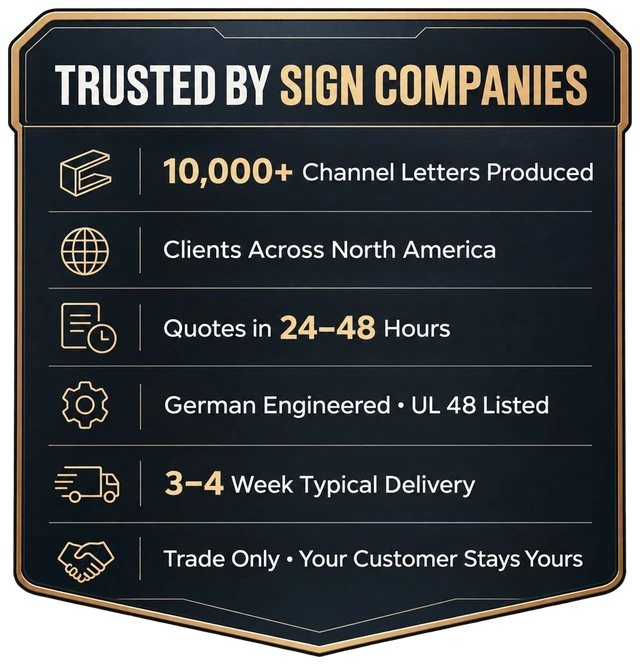
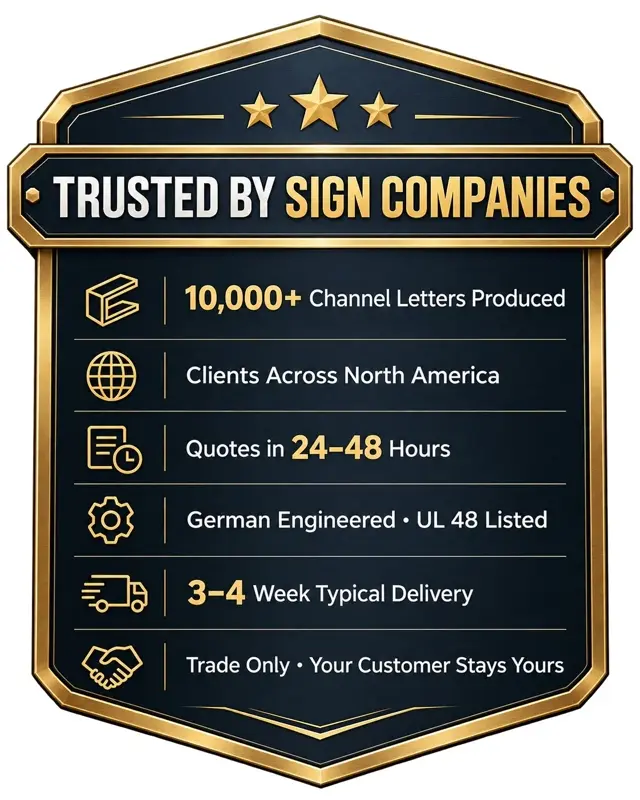
New trust badge; real 404 page (prerendered 404.html, nginx error_page, no more soft 404s); /configurator in the sitemap; GO-LIVE guide
Claude-Session: https://claude.ai/code/session_01APW8WacVs5y7jePXvmngjG

diff --git a/src/pages/NotFoundPage.tsx b/src/pages/NotFoundPage.tsx
@@ -1,0 +1,44 @@
+import { useEffect } from "react";
+import { Link } from "react-router-dom";
+import Seo from "../components/Seo";
+import { PrimaryCta } from "../components/CtaButton";
+import { CTA_LINKS } from "../lib/cta";
+
+const links = [
+  { to: CTA_LINKS.exploreUltraSlim.to, label: "Ultra-slim letters" },
+  { to: CTA_LINKS.viewChannelLetters.to, label: "Classic trimless letters" },
+  { to: "/services/custom-sign-fabrication", label: "Custom sign fabrication" },
+  { to: CTA_LINKS.tryConfigurator.to, label: "Build Your Sign in 3D" },
+  { to: CTA_LINKS.viewAllProjects.to, label: "Projects" },
+  { to: "/contact", label: "Contact" },
+];
+
+/** Any address that is not a page of this site. The host answers it with a real 404 status (see nginx.conf). */
+export default function NotFoundPage() {
+  useEffect(() => { window.scrollTo(0, 0); }, []);
+  return (
+    <div className="pt-32 pb-24">
+      <Seo title="Page not found" description="This page does not exist or has moved." path="/404" noindex />
+      <div className="max-w-3xl mx-auto px-6">
+        <p className="mono-label text-primary mb-4">Error 404</p>
+        <h1 className="text-5xl md:text-7xl">Page not found.</h1>
+        <p className="text-lg text-foreground/80 mt-6 max-w-xl">
+          The page you are looking for does not exist or has moved. Try one of these, or send us your artwork and we will quote it.
+        </p>
+        <ul className="mt-8 grid sm:grid-cols-2 gap-3">
+          {links.map((l) => (
+            <li key={l.to}>
+              <Link to={l.to} className="block border border-border bg-card/50 px-4 py-3 hover:border-primary hover:text-primary transition-colors">
+                {l.label}
+              </Link>
+            </li>
+          ))}
+        </ul>
+        <div className="mt-8 flex flex-col sm:flex-row gap-3">
+          <PrimaryCta />
+          <Link to="/" className="mono-label inline-flex items-center px-4 py-3 text-muted-foreground hover:text-foreground">Back to the homepage</Link>
+        </div>
+      </div>
+    </div>
+  );
+}

diff --git a/src/App.tsx b/src/App.tsx
@@ -1,3 +1,4 @@
+import NotFoundPage from "./pages/NotFoundPage";
 import { lazy, Suspense } from "react";
 import { BrowserRouter, Navigate, Routes, Route } from "react-router-dom";
 import Header from "./components/Header";
@@ -43,7 +44,7 @@ export function AppRoutes() {
             <Route key={from} path={from} element={<Navigate to={to} replace />} />
           ))}
           {/* Any other /services/... URL (retired or mistyped) goes home. */}
-          <Route path="/services/*" element={<Navigate to="/" replace />} />
+          <Route path="/services/*" element={<NotFoundPage />} />
           <Route path="/contact" element={<ContactPage />} />
           <Route
             path="/configurator"
@@ -53,6 +54,7 @@ export function AppRoutes() {
               </Suspense>
             }
           />
+          <Route path="*" element={<NotFoundPage />} />
         </Routes>
       </main>
       <Footer />

diff --git a/src/lib/routes.ts b/src/lib/routes.ts
@@ -33,9 +33,11 @@ export function getSitemapEntries(): SitemapEntry[] {
     if (route === "/about") return { changefreq: "yearly", priority: 0.6 };
     if (route === "/contact") return { changefreq: "yearly", priority: 0.7 };
     if (route.startsWith("/projects/")) return { changefreq: "yearly", priority: 0.6 };
+    if (route === "/configurator") return { changefreq: "monthly", priority: 0.8 };
     return { changefreq: "monthly", priority: 0.7 };
   };
-  return getPrerenderRoutes().map((path) => ({ path, ...meta(path) }));
+  // /configurator is a client-rendered page with its own prerendered shell, so it is not in getPrerenderRoutes() but is a real page.
+  return [...getPrerenderRoutes(), "/configurator"].map((path) => ({ path, ...meta(path) }));
 }
 
 /** Case studies as llms.txt bullets (empty while there are none). */

diff --git a/src/lib/__tests__/siteConfig.test.ts b/src/lib/__tests__/siteConfig.test.ts
@@ -184,7 +184,7 @@ describe("verify-prerender: origin and noindex checks", () => {
     try {
       const routes = ["/", "/contact"];
       fs.writeFileSync(path.join(dir, "robots.txt"), buildRobotsTxt("https://t2wraps.com", false));
-      fs.writeFileSync(path.join(dir, "sitemap.xml"), buildSitemap(routes.map((p) => ({ path: p, changefreq: "monthly" as const, priority: 0.5 })), "https://t2wraps.com"));
+      fs.writeFileSync(path.join(dir, "sitemap.xml"), buildSitemap([...routes, "/configurator"].map((p) => ({ path: p, changefreq: "monthly" as const, priority: 0.5 })), "https://t2wraps.com"));
       fs.writeFileSync(path.join(dir, "llms.txt"), "# x\n- [a](https://t2wraps.com/)\n");
       expect(checkSiteFiles(dir, routes, { siteUrl: "https://t2wraps.com", noindex: false })).toEqual([]);
 

diff --git a/src/components/__tests__/TrustBadgeSection.test.tsx b/src/components/__tests__/TrustBadgeSection.test.tsx
@@ -24,7 +24,7 @@ describe("TrustBadgeSection", () => {
     renderSection();
     const img = screen.getByRole("img", { name: TRUST_BADGE.alt });
     expect(TRUST_BADGE.alt).toBe(
-      "Sunlite Signs wholesale manufacturing credentials — 10,000+ channel letters produced, UL 48 listed, German-engineered, nationwide sign company partner",
+      "Trusted by sign companies: 10,000+ channel letters produced, clients across North America, quotes in 24 to 48 hours, German Engineered, UL 48 listed, 3 to 4 week typical delivery, trade only",
     );
     expect(img).toHaveAttribute("src", "/images/trust-badge.webp");
     expect(img).toHaveAttribute("width", String(TRUST_BADGE.width));

diff --git a/src/lib/__tests__/caseStudyRoutes.test.tsx b/src/lib/__tests__/caseStudyRoutes.test.tsx
@@ -33,7 +33,7 @@ describe("case studies drive routes, sitemap, llms.txt and the page", () => {
     const xml = buildSitemap(getSitemapEntries(), SITE_URL);
     expect(xml).toContain(`<loc>${SITE_URL}${route}</loc>`);
     const locs = [...xml.matchAll(/<loc>([^<]+)<\/loc>/g)].map((m) => m[1]).sort();
-    expect(locs).toEqual(getPrerenderRoutes().map((r) => (r === "/" ? `${SITE_URL}/` : SITE_URL + r)).sort());
+    expect(locs).toEqual([...getPrerenderRoutes(), "/configurator"].map((r) => (r === "/" ? `${SITE_URL}/` : SITE_URL + r)).sort());
     expect(getSitemapEntries().find((e) => e.path === route)).toMatchObject({ changefreq: "yearly", priority: 0.6 });
   });
 

diff --git a/src/components/home/TrustBadgeSection.tsx b/src/components/home/TrustBadgeSection.tsx
@@ -5,9 +5,9 @@ import { CTA_PRIMARY } from "../../lib/cta";
 export const TRUST_BADGE = {
   src: "/images/trust-badge.webp",
   src640: "/images/trust-badge-640.webp",
-  width: 1134,
-  height: 1178,
-  alt: "Sunlite Signs wholesale manufacturing credentials — 10,000+ channel letters produced, UL 48 listed, German-engineered, nationwide sign company partner",
+  width: 1122,
+  height: 1402,
+  alt: "Trusted by sign companies: 10,000+ channel letters produced, clients across North America, quotes in 24 to 48 hours, German Engineered, UL 48 listed, 3 to 4 week typical delivery, trade only",
 } as const;
 
 /**

diff --git a/src/lib/__tests__/routes.test.ts b/src/lib/__tests__/routes.test.ts
@@ -36,7 +36,7 @@ describe("static route lists", () => {
   it("the generated sitemap lists exactly the prerendered routes, on the configured origin", () => {
     const xml = buildSitemap(getSitemapEntries(), SITE_URL);
     const locs = [...xml.matchAll(/<loc>([^<]+)<\/loc>/g)].map((m) => m[1]);
-    const expected = routes.map((r) => (r === "/" ? `${SITE_URL}/` : SITE_URL + r));
+    const expected = [...routes, "/configurator"].map((r) => (r === "/" ? `${SITE_URL}/` : SITE_URL + r));
     expect([...locs].sort()).toEqual([...expected].sort());
   });
 

diff --git a/src/pages/__tests__/SitePages.test.tsx b/src/pages/__tests__/SitePages.test.tsx
@@ -194,7 +194,7 @@ describe("retired /services URLs redirect on the client", () => {
     expect(h1("/services/cabinet-signs")).toBe("Custom Sign Fabrication.Made to Your Drawings.");
   });
 
-  it("an unknown /services path goes home", () => {
-    expect(h1("/services/nope")).toBe("Wholesale Channel Letters.Built for Sign Companies.");
+  it("an unknown /services path shows the 404 page", () => {
+    expect(h1("/services/nope")).toBe("Page not found.");
   });
 });

diff --git a/docs/GO-LIVE.md b/docs/GO-LIVE.md
@@ -1,0 +1,36 @@
+# Go-live, step by step
+
+Do these in order. Each step is small and has one way to check it worked. Details live in `LAUNCH-CHECKLIST.md`,
+`ANALYTICS-PLAN.md` and `SEO-AND-AI-VISIBILITY.md`.
+
+## Step 1. Deploy the real domain
+- Coolify: build arguments `VITE_SITE_URL=https://sunlitesigns.com`, no `VITE_NOINDEX`, then the Google IDs when you have them
+  (`VITE_GTM_ID`, `VITE_GA4_ID`, `VITE_GOOGLE_ADS_ID`, `VITE_GOOGLE_ADS_LEAD_LABEL`). Redeploy from `master`.
+- Check: `https://sunlitesigns.com/robots.txt` shows `Allow: /` and a `Sitemap:` line; `/sitemap.xml` lists the pages;
+  a made-up address such as `/abc` shows the "Page not found" page (and the browser's network tab says status 404).
+
+## Step 2. Clean up what Google remembers (301 and 404)
+- A **301** is a permanent redirect: "this old address now lives at that new address". Google moves the old page's ranking to the
+  new page and drops the old one. Old pages that have a matching new page get a 301 (`nginx.conf`, `public/_redirects`,
+  `src/lib/routes.ts`, kept identical by a test).
+- Old pages with **no** equivalent (lorem ipsum, test or demo pages): do not redirect them to the homepage. Let them return a
+  real **404** (done: unknown addresses now answer 404 with a friendly page) and ask Google to forget them in Search Console.
+- To list what Google has: Search Console, Pages report, "Why pages aren't indexed" and the indexed list; also Google for
+  `site:sunlitesigns.com`. Send me the old addresses and I add the 301s.
+
+## Step 3. Google Search Console
+- Add `https://sunlitesigns.com` as a Domain property, verify through DNS.
+- Sitemaps: submit `https://sunlitesigns.com/sitemap.xml`.
+- URL inspection: request indexing for the homepage and the three product pages.
+- Removals: temporarily remove any junk URLs that now return 404.
+
+## Step 4. Analytics and ads
+- GA4 property and web data stream, then a GTM container; put the IDs into the Coolify build arguments (Step 1) and redeploy.
+- Google Ads account, a conversion action for "quote request", its label into `VITE_GOOGLE_ADS_LEAD_LABEL`.
+- HubSpot form: add hidden fields `gclid`, `utm_source`, `utm_medium`, `utm_campaign` (see `ANALYTICS-PLAN.md`).
+- Check: GTM preview mode and GA4 Realtime show your own visit after you accept the cookie banner.
+
+## Step 5. Before spending on ads
+- Send a test quote from the contact page and from the configurator; confirm it reaches HubSpot with the attachment.
+- Confirm the conversion shows in Google Ads (it can take a few hours).
+- Legal pages review and the open owner confirmations in `STATUS.md`.

diff --git a/docs/site-content.md b/docs/site-content.md
@@ -148,7 +148,7 @@ UL 48 listed signs
 
 [Request Wholesale Pricing](/contact)
 
-*[Image: Sunlite Signs wholesale manufacturing credentials — 10,000+ channel letters produced, UL 48 listed, German-engineered, nationwide sign company partner]*
+*[Image: Trusted by sign companies: 10,000+ channel letters produced, clients across North America, quotes in 24 to 48 hours, German Engineered, UL 48 listed, 3 to 4 week typical delivery, trade only]*
 
 Sunlite Ultra-Slim · EdgeLuxe LP 11
 
